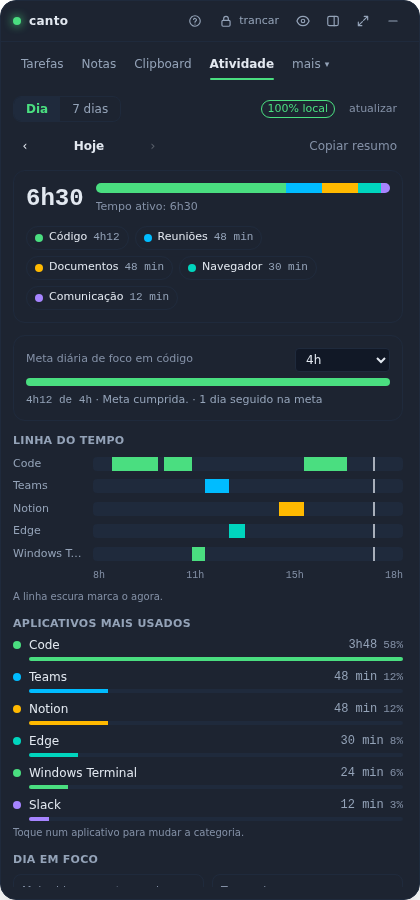
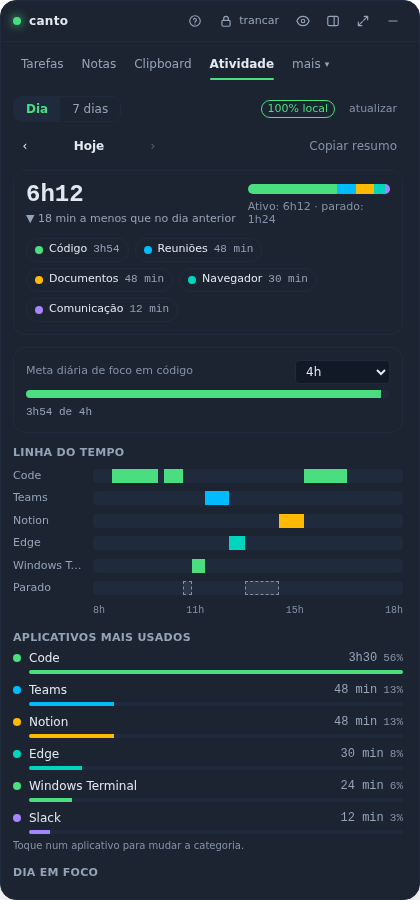
feat: Atividade mostra o tempo parado separado do ativo (#67)
O sampler já parava de gravar após 2 min sem teclado e mouse, mas isso virava um buraco indistinguível de computador desligado. Agora o log guarda esses trechos como parado (chave nova com default, logs antigos abrem) e o resumo, a linha do tempo e o topo da aba os mostram.

Claude-Session: https://claude.ai/code/session_01LsLvA87F9CWu891Wy28a3b

diff --git a/src/components/ActivityTab.tsx b/src/components/ActivityTab.tsx
@@ -37,7 +37,7 @@ export default function ActivityTab({ today, onError }: { today: string; onError
       if (!st.enabled) return;
       const days = [0, 1, 2, 3, 4, 5, 6].map((i) => start - i * DAY_MS);
       const [todaySummary, ...rest] = await Promise.all(days.map((d) => api.activitySummary(d, d + DAY_MS)));
-      setData({ week: [todaySummary, ...rest].map((s, i) => ({ day: days[i], apps: s.apps, spans: s.spans })) });
+      setData({ week: [todaySummary, ...rest].map((s, i) => ({ day: days[i], apps: s.apps, spans: s.spans, idle: s.idle, idleSecs: s.idle_secs })) });
     } catch (e) {
       onError(errText(e));
     }
@@ -95,7 +95,7 @@ export default function ActivityTab({ today, onError }: { today: string; onError
   const all = period === "today" ? shownDay.apps : weekApps;
   const shown = withoutHidden(all, hidden);
   const weekDays = data.week.filter((d) => sumOf(d.apps) > 0).length;
-  const caption = period === "today" ? t("activity.total", { time: secsLabel(sumOf(shown)) }) : t("activity.weekAvg", { time: secsLabel(sumOf(shown) / Math.max(1, weekDays)) });
+  const caption = period === "today" ? (shownDay.idleSecs > 0 ? t("activity.totalIdle", { time: secsLabel(sumOf(shown)), idle: secsLabel(shownDay.idleSecs) }) : t("activity.total", { time: secsLabel(sumOf(shown)) })) : t("activity.weekAvg", { time: secsLabel(sumOf(shown) / Math.max(1, weekDays)) });
   const dayLabel = sel === 0 ? t("activity.today") : sel === 1 ? t("activity.yesterday") : new Date(shownDay.day).toLocaleDateString(LOCALE, { weekday: "short", day: "2-digit", month: "2-digit" });
 
   async function copy() {
@@ -154,7 +154,7 @@ export default function ActivityTab({ today, onError }: { today: string; onError
           {shown.length === 0 ? (
             <p className="px-2 py-4 text-center text-xs text-faint">{t("activity.noneSelected")}</p>
           ) : period === "today" ? (
-            <TodayView spans={withoutHidden(shownDay.spans, hidden)} apps={shown} yesterdaySpans={before ? withoutHidden(before.spans, hidden) : []} dayStartMs={start - sel * DAY_MS} nowSec={sel === 0 ? Math.floor(Date.now() / 1000) : null} onRecategorize={recategorize} />
+            <TodayView spans={withoutHidden(shownDay.spans, hidden)} idle={shownDay.idle} apps={shown} yesterdaySpans={before ? withoutHidden(before.spans, hidden) : []} dayStartMs={start - sel * DAY_MS} nowSec={sel === 0 ? Math.floor(Date.now() / 1000) : null} onRecategorize={recategorize} />
           ) : (
             <WeekView days={data.week.map((d) => ({ ...d, apps: withoutHidden(d.apps, hidden), spans: withoutHidden(d.spans, hidden) }))} />
           )}

diff --git a/src/components/ActivityViews.tsx b/src/components/ActivityViews.tsx
@@ -1,17 +1,18 @@
 import { t } from "../i18n";
 import { appName, barBox, byCategory, categoryOf, CATEGORY_COLOR, focusStats, hourRange, secsLabel, timelineRows, weekStats, type Category } from "../lib/activity";
-import type { ActivitySpan } from "../lib/api";
+import type { ActivityAway, ActivitySpan } from "../lib/api";
 import ActivityApps from "./ActivityApps";
 import ActivityHeat from "./ActivityHeat";
 
 type Apps = { app: string; secs: number }[];
-export type Day = { day: number; apps: Apps; spans: ActivitySpan[] };
+export type Day = { day: number; apps: Apps; spans: ActivitySpan[]; idle: ActivityAway[]; idleSecs: number };
 
 const H3 = "text-[11px] font-semibold uppercase tracking-wide text-muted";
 const clock = (sec: number) => new Date(sec * 1000).toLocaleTimeString(undefined, { hour: "2-digit", minute: "2-digit" });
 
-export function TodayView({ spans, apps, yesterdaySpans, dayStartMs, nowSec, onRecategorize }: {
+export function TodayView({ spans, idle, apps, yesterdaySpans, dayStartMs, nowSec, onRecategorize }: {
   spans: ActivitySpan[];
+  idle: ActivityAway[];
   apps: Apps;
   yesterdaySpans: ActivitySpan[];
   dayStartMs: number;
@@ -40,6 +41,17 @@ export function TodayView({ spans, apps, yesterdaySpans, dayStartMs, nowSec, onR
             </span>
           </div>
         ))}
+        {idle.length > 0 && (
+          <div className="grid grid-cols-[4.5rem_1fr] items-center gap-2 text-[11px]">
+            <span className="truncate text-muted">{t("activity.idle")}</span>
+            <span className="relative h-3.5 overflow-hidden rounded bg-edge">
+              {idle.map((a) => {
+                const box = barBox({ app: "", ...a }, daySec, range);
+                return <span key={a.start} title={`${t("activity.idleHint")} ${clock(a.start)}–${clock(a.end)} (${secsLabel(a.end - a.start)})`} className="absolute inset-y-0 min-w-[2px] border border-dashed border-faint bg-hover" style={{ left: `${box.left}%`, width: `${box.width}%` }} />;
+              })}
+            </span>
+          </div>
+        )}
         <div className="grid grid-cols-[4.5rem_1fr] gap-2 text-[10px] text-faint">
           <span />
           <span className="flex justify-between font-mono tabular-nums">{ticks.map((h) => <span key={h}>{h}h</span>)}</span>

diff --git a/src/components/ActivityTab.test.tsx b/src/components/ActivityTab.test.tsx
@@ -15,8 +15,10 @@ const summary = {
     { app: "Slack", secs: 1800 },
   ],
   total_secs: 9000,
+  idle: [{ start: day + 11.5 * 3600, end: day + 12 * 3600 }],
+  idle_secs: 1800,
 };
-const empty = { spans: [], apps: [], total_secs: 0 };
+const empty = { spans: [], apps: [], total_secs: 0, idle: [], idle_secs: 0 };
 
 mock.module("@tauri-apps/api/core", () => ({
   invoke: (cmd: string, args?: Record<string, unknown>) => {
@@ -65,7 +67,8 @@ test("turning it on loads the day: total, categories and the most used apps", as
   });
   for (let i = 0; i < 3; i++) await act(async () => {});
   expect(calls.some((c) => c.cmd === "activity_set_enabled" && c.args?.enabled === true)).toBe(true);
-  expect(screen.getByText("Tempo ativo: 2h30")).toBeTruthy();
+  expect(screen.getByText("Ativo: 2h30 · parado: 30 min")).toBeTruthy();
+  expect(screen.getByText("Parado")).toBeTruthy();
   expect(screen.getByRole("button", { name: /Código/ })).toBeTruthy();
   expect(screen.getByRole("button", { name: /Comunicação/ })).toBeTruthy();
   expect(screen.getByText("Maior bloco sem trocar de app")).toBeTruthy();

diff --git a/src/lib/api.ts b/src/lib/api.ts
@@ -11,7 +11,15 @@ export type Repeat = { tipo: "diaria" } | { tipo: "dias_uteis" } | { tipo: "sema
 export type Subtask = { id: string; title: string; done: boolean };
 /** Unix seconds: the day is cut in the UI, whose timezone is the reliable one. */
 export type ActivitySpan = { app: string; start: number; end: number };
-export type ActivitySummary = { spans: ActivitySpan[]; apps: { app: string; secs: number }[]; total_secs: number };
+export type ActivityAway = { start: number; end: number };
+export type ActivitySummary = {
+  spans: ActivitySpan[];
+  apps: { app: string; secs: number }[];
+  total_secs: number;
+  /** Stretches with the computer on and no keyboard or mouse input. */
+  idle: ActivityAway[];
+  idle_secs: number;
+};
 export type ActivityStatus = { supported: boolean; enabled: boolean };
 
 export type Priority = "low" | "medium" | "high";

diff --git a/src/components/ActivityHead.tsx b/src/components/ActivityHead.tsx
@@ -36,7 +36,7 @@ export default function ActivityHead({ all, shown, hidden, onToggle, reference, 
               <span key={c.category} className={CATEGORY_COLOR[c.category]} title={`${catLabel(c.category)} ${secsLabel(c.secs)}`} style={{ width: `${(c.secs / total) * 100}%` }} />
             ))}
           </div>
-          <span className="truncate text-[11px] text-faint">{caption}</span>
+          <span className="text-[11px] leading-tight text-faint">{caption}</span>
         </div>
       </div>
       <div role="group" aria-label={t("activity.filterLabel")} className="flex flex-wrap gap-1.5">

diff --git a/src/i18n/en/focus.ts b/src/i18n/en/focus.ts
@@ -79,6 +79,9 @@ export const focus: Record<keyof typeof source, string> = {
   "activity.copied": "Summary copied",
   "activity.copyFailed": "Could not copy. Select the text and use {mod}+C.",
   "activity.summaryHead": "{day}: {time} active",
+  "activity.idle": "Idle",
+  "activity.idleHint": "No keyboard or mouse",
+  "activity.totalIdle": "Active: {time} · idle: {idle}",
   "activity.topApps": "Most used applications",
   "activity.empty": "Nothing recorded yet. Use the computer a little and come back.",
   "activity.refresh": "refresh",

diff --git a/src/i18n/pt-BR/focus.ts b/src/i18n/pt-BR/focus.ts
@@ -77,6 +77,9 @@ export const focus = {
   "activity.copied": "Resumo copiado",
   "activity.copyFailed": "Não deu para copiar. Selecione o texto e use {mod}+C.",
   "activity.summaryHead": "{day}: {time} ativo",
+  "activity.idle": "Parado",
+  "activity.idleHint": "Sem teclado nem mouse",
+  "activity.totalIdle": "Ativo: {time} · parado: {idle}",
   "activity.topApps": "Aplicativos mais usados",
   "activity.empty": "Ainda sem registros. Use o computador um pouco e volte.",
   "activity.refresh": "atualizar",

diff --git a/src-tauri/src/activity_tests.rs b/src-tauri/src/activity_tests.rs
@@ -45,13 +45,14 @@ fn the_app_name_is_one_trimmed_bounded_line() {
 
 #[test]
 fn old_spans_are_dropped_and_the_log_has_a_ceiling() {
-    let mut log = Log { spans: vec![Span { app: "Velho".into(), start: 0, end: 10 }] };
+    let mut log = Log { spans: vec![Span { app: "Velho".into(), start: 0, end: 10 }], ..Default::default() };
     log.record(Some("Code"), RETENTION_SECS + 100);
     assert_eq!(spans(&log), vec![("Code", RETENTION_SECS + 95, RETENTION_SECS + 100)]);
     let mut big = Log {
         spans: (0..MAX_SPANS as i64 + 5)
             .map(|i| Span { app: format!("a{i}"), start: i * 10, end: i * 10 + 5 })
             .collect(),
+        ..Default::default()
     };
     big.record(Some("novo"), MAX_SPANS as i64 * 10 + 100);
     assert_eq!(big.spans.len(), MAX_SPANS);
@@ -67,6 +68,7 @@ fn a_summary_clips_spans_to_the_window_and_ranks_apps_by_time() {
             Span { app: "Code".into(), start: 200, end: 260 },
             Span { app: "Fora".into(), start: 500, end: 600 },
         ],
+        ..Default::default()
     };
     let s = summarize(&log, 50, 250);
     assert_eq!(s.spans.len(), 3);
@@ -85,9 +87,41 @@ fn an_old_log_file_with_no_spans_key_still_loads() {
 fn a_summary_keeps_the_newest_spans_when_it_has_to_cut() {
     let log = Log {
         spans: (0..SPANS_MAX as i64 + 3).map(|i| Span { app: "Code".into(), start: i * 10, end: i * 10 + 5 }).collect(),
+        ..Default::default()
     };
     let s = summarize(&log, 0, i64::MAX / 2);
     assert_eq!(s.spans.len(), SPANS_MAX);
     assert_eq!(s.spans.last().unwrap().start, (SPANS_MAX as i64 + 2) * 10);
     assert_eq!(s.total_secs, (SPANS_MAX as i64 + 3) * 5, "totals count what was cut too");
+}
+
+#[test]
+fn idle_samples_grow_one_away_stretch_and_a_gap_starts_another() {
+    let mut log = Log::default();
+    for now in [1005, 1010, 1015] {
+        log.record_idle(now);
+    }
+    log.record_idle(1100);
+    assert_eq!(log.idle, vec![Away { start: 1000, end: 1015 }, Away { start: 1095, end: 1100 }]);
+    assert!(log.spans.is_empty(), "idle never counts as an application");
+}
+
+#[test]
+fn a_summary_clips_the_away_time_and_a_log_without_the_key_has_none() {
+    let log = Log { idle: vec![Away { start: 0, end: 100 }, Away { start: 300, end: 400 }], ..Default::default() };
+    let s = summarize(&log, 50, 350);
+    assert_eq!(s.idle, vec![Away { start: 50, end: 100 }, Away { start: 300, end: 350 }]);
+    assert_eq!(s.idle_secs, 100);
+    let old: Log = serde_json::from_str(r#"{"spans":[{"app":"Code","start":1,"end":2}]}"#).unwrap();
+    assert_eq!((old.spans.len(), old.idle.len()), (1, 0));
+}
+
+#[test]
+fn old_away_time_is_dropped_and_clear_forgets_both() {
+    let mut log = Log { idle: vec![Away { start: 0, end: 10 }], ..Default::default() };
+    log.record_idle(RETENTION_SECS + 100);
+    assert_eq!(log.idle, vec![Away { start: RETENTION_SECS + 95, end: RETENTION_SECS + 100 }]);
+    log.record(Some("Code"), RETENTION_SECS + 105);
+    log.clear();
+    assert!(log.spans.is_empty() && log.idle.is_empty());
 }

diff --git a/src-tauri/src/activity_watch.rs b/src-tauri/src/activity_watch.rs
@@ -68,12 +68,20 @@ impl ActivityState {
     }
 }
 
+/// What one tick saw.
+#[derive(Debug, PartialEq)]
+pub enum Sample {
+    App(String),
+    Idle,
+    Unknown,
+}
+
 /// One tick: what to record given the OS answers. Pure so the idle rule has a test.
-pub fn sample(foreground: impl FnOnce() -> Option<String>, idle_secs: Option<u64>) -> Option<String> {
+pub fn sample(foreground: impl FnOnce() -> Option<String>, idle_secs: Option<u64>) -> Sample {
     if idle_secs.is_some_and(|s| s >= IDLE_LIMIT_SECS) {
-        return None;
+        return Sample::Idle;
     }
-    foreground()
+    foreground().map_or(Sample::Unknown, Sample::App)
 }
 
 pub fn watch(app: AppHandle) {
@@ -89,8 +97,12 @@ pub fn watch(app: AppHandle) {
                 continue;
             }
             let now = now_ms() / 1000;
-            let name = sample(activity_os::foreground_app, activity_os::idle_secs());
-            let recorded = act.with_log(&state, |log| log.record(name.as_deref(), now));
+            let seen = sample(activity_os::foreground_app, activity_os::idle_secs());
+            let recorded = act.with_log(&state, |log| match seen {
+                Sample::App(name) => log.record(Some(&name), now),
+                Sample::Idle => log.record_idle(now),
+                Sample::Unknown => {}
+            });
             if recorded.is_ok() && now - last_flush >= FLUSH_SECS {
                 last_flush = now;
                 if let Err(e) = act.flush(&state) {
@@ -159,7 +171,7 @@ pub fn activity_clear(state: State<'_, AppState>, act: State<'_, ActivityState>)
         return Err(AppError::Locked);
     }
     state.touch();
-    act.with_log(&state, |log| log.spans.clear())?;
+    act.with_log(&state, Log::clear)?;
     match std::fs::remove_file(store::activity_path(&state.dir)) {
         Err(e) if e.kind() != std::io::ErrorKind::NotFound => Err(e.into()),
         _ => Ok(()),
@@ -173,9 +185,10 @@ mod tests {
     #[test]
     fn idle_users_are_not_sampled_and_unknown_idle_counts_as_active() {
         let app = || Some("Code".to_string());
-        assert_eq!(sample(app, Some(5)).as_deref(), Some("Code"));
-        assert_eq!(sample(app, None).as_deref(), Some("Code"));
-        assert_eq!(sample(|| panic!("no need to ask"), Some(IDLE_LIMIT_SECS)), None);
+        assert_eq!(sample(app, Some(5)), Sample::App("Code".into()));
+        assert_eq!(sample(app, None), Sample::App("Code".into()));
+        assert_eq!(sample(|| panic!("no need to ask"), Some(IDLE_LIMIT_SECS)), Sample::Idle);
+        assert_eq!(sample(|| None, Some(5)), Sample::Unknown);
     }
 
     #[test]

diff --git a/src-tauri/src/activity.rs b/src-tauri/src/activity.rs
@@ -19,10 +19,20 @@ pub struct Span {
     pub end: i64,
 }
 
+/// A stretch with the computer on and Canto running but no keyboard or mouse input.
+#[derive(Debug, Clone, Copy, PartialEq, Serialize, Deserialize)]
+pub struct Away {
+    pub start: i64,
+    pub end: i64,
+}
+
 #[derive(Debug, Default, Clone, PartialEq, Serialize, Deserialize)]
 pub struct Log {
     #[serde(default)]
     pub spans: Vec<Span>,
+    /// Older logs have no such key; they load with none.
+    #[serde(default)]
+    pub idle: Vec<Away>,
 }
 
 impl Log {
@@ -39,11 +49,30 @@ impl Log {
         self.prune(now);
     }
 
+    /// Adds one idle sample taken at `now`; the user was away, which is not the same as a gap in the log.
+    pub fn record_idle(&mut self, now: i64) {
+        let from = now - INTERVAL_SECS;
+        match self.idle.last_mut() {
+            Some(last) if from - last.end <= GAP_SECS - INTERVAL_SECS => last.end = last.end.max(now),
+            _ => self.idle.push(Away { start: from, end: now }),
+        }
+        self.prune(now);
+    }
+
+    pub fn clear(&mut self) {
+        self.spans.clear();
+        self.idle.clear();
+    }
+
     fn prune(&mut self, now: i64) {
         let oldest = now - RETENTION_SECS;
         self.spans.retain(|s| s.end >= oldest);
+        self.idle.retain(|a| a.end >= oldest);
         if self.spans.len() > MAX_SPANS {
             self.spans.drain(0..self.spans.len() - MAX_SPANS);
+        }
+        if self.idle.len() > MAX_SPANS {
+            self.idle.drain(0..self.idle.len() - MAX_SPANS);
         }
     }
 }
@@ -66,6 +95,9 @@ pub struct Summary {
     /// Time per application, most used first.
     pub apps: Vec<AppTotal>,
     pub total_secs: i64,
+    /// Away stretches clipped to the window, oldest first.
+    pub idle: Vec<Away>,
+    pub idle_secs: i64,
 }
 
 /// Bounds the answer to the webview; the newest spans win, since they are the ones the timeline shows.
@@ -91,7 +123,14 @@ pub fn summarize(log: &Log, from: i64, to: i64) -> Summary {
     if spans.len() > SPANS_MAX {
         spans.drain(0..spans.len() - SPANS_MAX);
     }
-    Summary { spans, apps: totals, total_secs }
+    let idle: Vec<Away> = log
+        .idle
+        .iter()
+        .filter(|a| a.end > from && a.start < to)
+        .map(|a| Away { start: a.start.max(from), end: a.end.min(to) })
+        .collect();
+    let idle_secs = idle.iter().map(|a| a.end - a.start).sum();
+    Summary { spans, apps: totals, total_secs, idle: idle.into_iter().rev().take(SPANS_MAX).rev().collect(), idle_secs }
 }
 
 #[cfg(test)]

diff --git a/README.md b/README.md
@@ -304,7 +304,7 @@ And **Follow system**, which switches between light and dark along with the OS. 
 
 The **Activity** tab starts hidden (turn it on under Settings → visible tabs). It records only the name of the
 focused application while you use the computer, in a sealed local file that never reaches backups or sync, and shows
-a summary against yesterday with category filters, a timeline with a "now" marker, the most used applications, the longest focus stretch, a daily code-focus goal with its streak, day-by-day navigation, a copyable summary, editable categories per application, and the last 7 days with their average and an hour heat map. Off until you opt in; Wayland can't report the focused window, so
+a summary against yesterday with category filters, a timeline with a "now" marker and the idle stretches (no keyboard or mouse for 2 minutes), the most used applications, the longest focus stretch, a daily code-focus goal with its streak, day-by-day navigation, a copyable summary, editable categories per application, and the last 7 days with their average and an hour heat map. Off until you opt in; Wayland can't report the focused window, so
 it stays unavailable there.
 
 <sub>All screenshots use fictitious data.</sub>

diff --git a/CHANGELOG.md b/CHANGELOG.md
@@ -7,6 +7,10 @@ versões em [SemVer](https://semver.org/lang/pt-BR/).
 
 ### Alterado
 
+- **Atividade separa o tempo parado**: quando você fica sem teclado e mouse por 2 minutos com o Canto aberto, esse
+  trecho passa a aparecer como **Parado** na linha do tempo e no resumo do dia, em vez de virar um buraco que
+  poderia ser computador desligado ou cofre trancado. O tempo ativo continua o mesmo; só o que é novo é registrado,
+  e logs antigos continuam abrindo. No Linux a ociosidade depende do `xprintidle`.
 - **Aba Atividade renovada**: o topo mostra o total, a diferença para ontem, a divisão por categoria e chips que
   escondem uma categoria (os totais, a linha do tempo e a semana se recalculam). A linha do tempo marca o "agora" e
   mostra o horário de cada trecho ao passar o mouse; os aplicativos ganham a cor da categoria e a parte do dia; o
